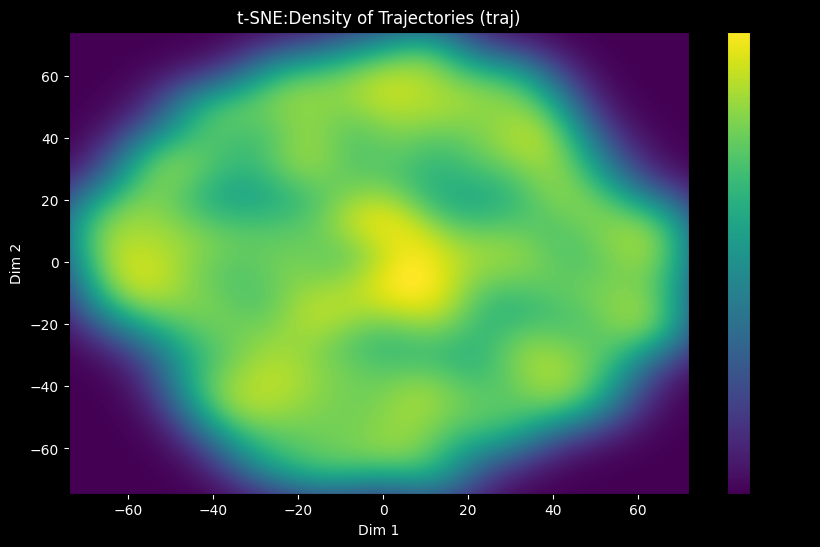
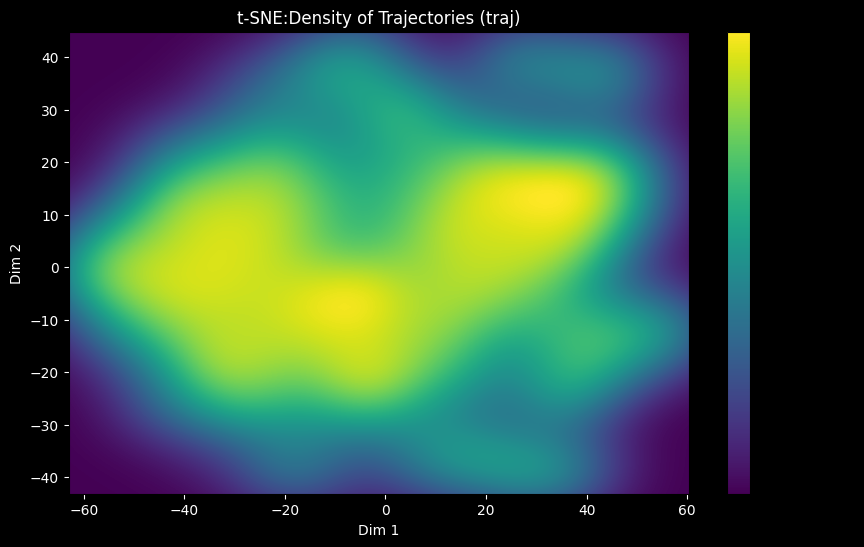
update curioisty data generation

diff --git a/Pretrain/generate_dataset.py b/Pretrain/generate_dataset.py
@@ -12,61 +12,81 @@ import torch.nn as nn
 import torch.nn.functional as F
 from rsl_rl.runners import OnPolicyRunner
 from .go2_env import Go2Env
+from sklearn.metrics.pairwise import cosine_similarity
+from collections import deque
 
-class BatchedRandomPolicyNN(nn.Module):
-    def __init__(self, num_envs, input_dim, hidden_dim, output_dim):
-        super(BatchedRandomPolicyNN, self).__init__()
-        self.num_envs = num_envs
 
-        # Create batched weights and biases
-        self.fc1_w = nn.Parameter(torch.empty(num_envs, hidden_dim, input_dim))
-        self.fc1_b = nn.Parameter(torch.empty(num_envs, 1, hidden_dim))
-        self.fc2_w = nn.Parameter(torch.empty(num_envs, hidden_dim, hidden_dim))
-        self.fc2_b = nn.Parameter(torch.empty(num_envs, 1, hidden_dim))
-        self.fc3_w = nn.Parameter(torch.empty(num_envs, output_dim, hidden_dim))
-        self.fc3_b = nn.Parameter(torch.empty(num_envs, 1, output_dim))
+class ICMModule(nn.Module):
+    def __init__(self, state_dim, action_dim, hidden_dim=256):
+        super(ICMModule, self).__init__()
+        # Encoder: Maps state-action to feature space
+        self.encoder = nn.Sequential(
+            nn.Linear(state_dim + action_dim, hidden_dim),
+            nn.ReLU(),
+            nn.Linear(hidden_dim, hidden_dim // 2)
+        )
+        # Forward model: Predicts next state features
+        self.forward_model = nn.Sequential(
+            nn.Linear(hidden_dim // 2 + action_dim, hidden_dim),
+            nn.ReLU(),
+            nn.Linear(hidden_dim, hidden_dim // 2)
+        )
+        # Inverse model: Predicts action from state transitions
+        self.inverse_model = nn.Sequential(
+            nn.Linear(hidden_dim // 2 * 2, hidden_dim),
+            nn.ReLU(),
+            nn.Linear(hidden_dim, action_dim)
+        )
 
-        self.reset_parameters()
+    def forward(self, state, action, next_state):
+        # Encode state and next_state
+        state_action = torch.cat([state, action], dim=-1)
+        phi = self.encoder(state_action)
+        phi_next = self.encoder(torch.cat([next_state, action], dim=-1))
 
-    def reset_parameters(self):
-        # Vectorized initialization for all policies at once
-        for param in self.parameters():
-            if param.dim() > 2: # Weights
-                nn.init.kaiming_normal_(param, mode="fan_in", nonlinearity="relu")
-            else: # Biases
-                nn.init.zeros_(param)
+        # Forward prediction
+        pred_phi_next = self.forward_model(torch.cat([phi, action], dim=-1))
+        forward_loss = F.mse_loss(pred_phi_next, phi_next, reduction='none').mean(dim=-1)
 
-    def forward(self, x):
-        # x shape: (num_envs, 1, input_dim)
-        # Use batched matrix multiply (bmm)
-        x = F.relu(torch.bmm(x, self.fc1_w.transpose(1, 2)) + self.fc1_b)
-        x = F.relu(torch.bmm(x, self.fc2_w.transpose(1, 2)) + self.fc2_b)
-        x = torch.bmm(x, self.fc3_w.transpose(1, 2)) + self.fc3_b
-        return x.squeeze(1) # Output shape: (num_envs, output_dim)
+        # Inverse prediction
+        pred_action = self.inverse_model(torch.cat([phi, phi_next], dim=-1))
+        inverse_loss = F.mse_loss(pred_action, action, reduction='none').mean(dim=-1)
+
+        return forward_loss, inverse_loss
+
+
+def compute_trajectory_embedding(traj, downsample_factor=5):
+    """Compute a compact embedding for deduplication."""
+    # Downsample and flatten trajectory (e.g., joint positions)
+    traj_downsampled = traj[::downsample_factor].reshape(-1)
+    return traj_downsampled
 
 
 def generate(cfg: DictConfig):
     # Data Gen Configs
     NUM_ENVS = cfg.dataset.num_envs
-    EPISODES_TO_COLLECT = cfg.dataset.episodes
-    MAX_EPISODE_SECONDS = cfg.dataset.max_episode_seconds
-    FRAME_RATE = cfg.dataset.frame_rate
+    EPISODES_TO_COLLECT = cfg.dataset.episodes  # Target: 500,000
+    MAX_EPISODE_SECONDS = cfg.dataset.max_episode_seconds  # 5s
+    FRAME_RATE = cfg.dataset.frame_rate  # 30 FPS
     AGENT = cfg.agent.name
     path = f"./Pretrain/data/{AGENT}/{NUM_ENVS} {EPISODES_TO_COLLECT} {MAX_EPISODE_SECONDS} {FRAME_RATE}"
     os.makedirs(path, exist_ok=True)
     SAVE_FILENAME = f"{path}/{NUM_ENVS} {EPISODES_TO_COLLECT} {MAX_EPISODE_SECONDS} {FRAME_RATE}.h5"
 
-    STRUCTURED_FRACTION = cfg.dataset.structured_fraction
-    NUM_STRUCTURED = int(EPISODES_TO_COLLECT * STRUCTURED_FRACTION)
-    NUM_RANDOM = EPISODES_TO_COLLECT - NUM_STRUCTURED
-    NOISE_STD_MAX = cfg.dataset.noise_std_max
+    CURIOSITY_BETA = cfg.dataset.curiosity_beta  # Weight for intrinsic reward
     POLICY_HIDDEN_DIM = cfg.dataset.policy_hidden_dim
+    SIMILARITY_THRESHOLD = cfg.dataset.similarity_threshold  # For deduplication
 
     log_dir = cfg.dataset.log_dir
     env_cfg, obs_cfg, reward_cfg, command_cfg, train_cfg = pickle.load(open(f"{log_dir}/cfgs.pkl", "rb"))
 
     gs.init()
-    reward_cfg["reward_scales"] = {}
+    reward_cfg["reward_scales"] = {
+        "tracking_lin_vel": 1.0,  # Encourage velocity tracking
+        "tracking_ang_vel": 1.0,  # Encourage yaw tracking
+        "similar_to_default": -0.5,  # Penalize deviation from default pose
+        "base_height": -0.5  # Penalize height deviation
+    }
 
     env = Go2Env(
         num_envs=NUM_ENVS,
@@ -77,24 +97,31 @@ def generate(cfg: DictConfig):
         show_viewer=NUM_ENVS < 128,
     )
 
-    # Load RL policy once
+    # Initialize PPO policy and ICM
     runner = OnPolicyRunner(env, train_cfg, log_dir, device=gs.device)
-    resume_path = os.path.join(log_dir, f"model.pt")
-    runner.load(resume_path)
-    rl_policy = runner.get_inference_policy(device=gs.device)
+    policy = runner.get_inference_policy(device=gs.device)  # Base PPO policy
+    icm = ICMModule(state_dim=env.num_obs, action_dim=env.num_actions, hidden_dim=POLICY_HIDDEN_DIM).to(gs.device)
+    icm_optimizer = torch.optim.Adam(icm.parameters(), lr=1e-3)
 
     # Joint/DoF from env
     n_dofs = len(env.motors_dof_idx)
     input_dim = env.num_obs
     output_dim = env.num_actions
-
     max_episode_len = int(MAX_EPISODE_SECONDS * FRAME_RATE)
-    total_episodes_saved = 0
 
+    # Buffers
     agent_traj_buffer = torch.zeros((max_episode_len, NUM_ENVS, n_dofs), device=gs.device)
     obj_traj_buffer = torch.zeros((max_episode_len, NUM_ENVS, 3), device=gs.device)
+    state_buffer = torch.zeros((max_episode_len, NUM_ENVS, input_dim), device=gs.device)
+    action_buffer = torch.zeros((max_episode_len, NUM_ENVS, output_dim), device=gs.device)
+    next_state_buffer = torch.zeros((max_episode_len, NUM_ENVS, input_dim), device=gs.device)
 
-    print(f"Starting data generation. Target: {EPISODES_TO_COLLECT} episodes (Structured: {NUM_STRUCTURED}, Random: {NUM_RANDOM}).")
+    # Deduplication buffer
+    traj_embeddings = deque(maxlen=250000)  # Increased for 500k episodes
+
+    total_episodes_saved = 0
+    print(f"Starting curiosity-driven data generation on flat terrain. Target: {EPISODES_TO_COLLECT} episodes.")
+
     if os.path.exists(SAVE_FILENAME):
         os.remove(SAVE_FILENAME)
         print(f"Removed existing file: '{SAVE_FILENAME}'")
@@ -105,69 +132,99 @@ def generate(cfg: DictConfig):
         agent_ds = f.create_dataset('agent_trajectories', shape=(EPISODES_TO_COLLECT, max_episode_len, n_dofs), dtype='float32', compression="gzip")
         obj_ds = f.create_dataset('obj_trajectories', shape=(EPISODES_TO_COLLECT, max_episode_len, 3), dtype='float32', compression="gzip")
 
-        # --- Structured episodes (RL policy + gradual noise) ---
-        structured_saved = 0
-        while structured_saved < NUM_STRUCTURED:
+        # Pre-train ICM briefly to bootstrap curiosity
+        print("Pre-training ICM...")
+        for pretrain_iter in range(1000):  # Short pre-training
             obs, _ = env.reset()
-            with torch.no_grad():
+
+            # --- NO LOSS CALCULATION IN THIS LOOP ---
+            # This loop is now only for collecting a full episode of transitions.
+            with torch.no_grad():  # Actions are treated as data for ICM, no need for policy grads here
                 for t in range(max_episode_len):
-                    agent_traj_buffer[t] = env.robot.get_dofs_position(env.motors_dof_idx)
-                    obj_traj_buffer[t] = torch.zeros((NUM_ENVS, 3), device=gs.device)
-
-                    actions = rl_policy(obs)
-                    noise_std = NOISE_STD_MAX * (t / max_episode_len)
-                    noise = torch.normal(0, noise_std, size=actions.shape, device=gs.device)
-                    actions_noisy = actions + noise
-                    obs, rews, dones, infos = env.step(actions_noisy)
-
-            start_idx = total_episodes_saved
-            num_this_batch = min(NUM_ENVS, NUM_STRUCTURED - structured_saved)
-            end_idx = start_idx + num_this_batch
-
-            # ✅ Slice on GPU first, then copy only the necessary data
-            agent_data_to_save = agent_traj_buffer[:, :num_this_batch, :].cpu().numpy()
-            obj_data_to_save = obj_traj_buffer[:, :num_this_batch, :].cpu().numpy()
-
-            agent_ds[start_idx:end_idx] = np.transpose(agent_data_to_save, (1, 0, 2))
-            obj_ds[start_idx:end_idx] = np.transpose(obj_data_to_save, (1, 0, 2))
-
-            structured_saved += num_this_batch
-            total_episodes_saved += num_this_batch
-            print(f"  ...Collected structured episodes: {structured_saved}/{NUM_STRUCTURED}")
-
-        # --- Random episodes (random NN policies) ---
-        random_saved = 0
-        # ✅ Create a single batched policy for all environments
-        batched_policy = BatchedRandomPolicyNN(NUM_ENVS, input_dim, POLICY_HIDDEN_DIM, output_dim).to(gs.device)
-
-        while random_saved < NUM_RANDOM:
-            obs, _ = env.reset()
-            # ✅ Re-initialize all policies at once efficiently
-            batched_policy.reset_parameters()
-
-            with torch.no_grad():
-                for t in range(max_episode_len):
-                    agent_traj_buffer[t] = env.robot.get_dofs_position(env.motors_dof_idx)
-                    obj_traj_buffer[t] = torch.zeros((NUM_ENVS, 3), device=gs.device)
-
-                    # ✅ Use a single, fast, batched forward pass
-                    actions = batched_policy(obs.unsqueeze(1))
+                    state_buffer[t] = obs
+                    actions = policy(obs)
+                    action_buffer[t] = actions
                     obs, rews, dones, infos = env.step(actions)
+                    next_state_buffer[t] = obs
 
+            # --- BATCH LOSS CALCULATION AFTER THE EPISODE ---
+
+            # Reshape the buffers into a single large batch of transitions
+            # Shape goes from (time, envs, dim) to (time * envs, dim)
+            s = state_buffer.reshape(-1, input_dim)
+            a = action_buffer.reshape(-1, output_dim)
+            s_next = next_state_buffer.reshape(-1, input_dim)
+
+            # Now, compute the loss on the entire batch of transitions at once
+            forward_loss, inverse_loss = icm(s, a, s_next)
+
+            # The final loss is a simple mean over the batch dimension
+            total_loss = forward_loss.mean() + inverse_loss.mean()
+
+            # Single backward pass on the cleanly computed total loss
+            icm_optimizer.zero_grad()
+            total_loss.backward()
+            icm_optimizer.step()
+            print(f"  ...Pre-training iteration {pretrain_iter + 1}/1000, Loss: {total_loss.item():.4f}")
+
+        print("Pre-training complete. Starting episode collection...")
+
+        # Curiosity-driven collection on flat terrain
+        while total_episodes_saved < EPISODES_TO_COLLECT:
+            obs, _ = env.reset()
+            valid_episodes = torch.ones(NUM_ENVS, dtype=torch.bool, device=gs.device)
+
+            with torch.no_grad():
+                for t in range(max_episode_len):
+                    state_buffer[t] = obs
+                    actions = policy(obs)
+                    action_buffer[t] = actions
+                    obs, rews, dones, infos = env.step(actions)
+                    next_state_buffer[t] = obs
+
+                    # Compute intrinsic reward (curiosity)
+                    forward_loss, _ = icm(state_buffer[t], actions, next_state_buffer[t])
+                    intrinsic_rewards = forward_loss * CURIOSITY_BETA
+
+                    # Joint limit check
+                    joint_positions = env.robot.get_dofs_position(env.motors_dof_idx)  # Shape: (NUM_ENVS, n_dofs)
+
+                    agent_traj_buffer[t] = joint_positions
+                    obj_traj_buffer[t] = torch.zeros((NUM_ENVS, 3), device=gs.device)
+
+            # Deduplicate and save valid trajectories
             start_idx = total_episodes_saved
-            num_this_batch = min(NUM_ENVS, NUM_RANDOM - random_saved)
-            end_idx = start_idx + num_this_batch
+            num_this_batch = min(NUM_ENVS, EPISODES_TO_COLLECT - total_episodes_saved)
+            valid_indices = torch.where(valid_episodes)[0][:num_this_batch]
 
-            # ✅ Slice on GPU first, then copy only the necessary data
-            agent_data_to_save = agent_traj_buffer[:, :num_this_batch, :].cpu().numpy()
-            obj_data_to_save = obj_traj_buffer[:, :num_this_batch, :].cpu().numpy()
+            if valid_indices.size(0) > 0:
+                agent_data = agent_traj_buffer[:, valid_indices, :].cpu().numpy()
+                obj_data = obj_traj_buffer[:, valid_indices, :].cpu().numpy()
 
-            agent_ds[start_idx:end_idx] = np.transpose(agent_data_to_save, (1, 0, 2))
-            obj_ds[start_idx:end_idx] = np.transpose(obj_data_to_save, (1, 0, 2))
+                # Deduplication
+                valid_batch = []
+                for i in range(agent_data.shape[1]):
+                    traj_embedding = compute_trajectory_embedding(agent_data[:, i, :])
+                    is_unique = True
+                    for existing_emb in traj_embeddings:
+                        if cosine_similarity([traj_embedding], [existing_emb])[0, 0] > SIMILARITY_THRESHOLD:
+                            is_unique = False
+                            break
+                    if is_unique:
+                        valid_batch.append(i)
+                        traj_embeddings.append(traj_embedding)
 
-            random_saved += num_this_batch
-            total_episodes_saved += num_this_batch
-            print(f"  ...Collected random episodes: {random_saved}/{NUM_RANDOM}")
+                if valid_batch:
+                    valid_batch = valid_batch[:num_this_batch]  # Ensure we don't overshoot
+                    agent_data_to_save = agent_data[:, valid_batch, :]
+                    obj_data_to_save = obj_data[:, valid_batch, :]
+
+                    end_idx = start_idx + len(valid_batch)
+                    if end_idx > start_idx:
+                        agent_ds[start_idx:end_idx] = np.transpose(agent_data_to_save, (1, 0, 2))
+                        obj_ds[start_idx:end_idx] = np.transpose(obj_data_to_save, (1, 0, 2))
+                        total_episodes_saved += len(valid_batch)
+                        print(f"  ...Collected curiosity-driven episodes: {total_episodes_saved}/{EPISODES_TO_COLLECT}")
 
     end_time = time.time()
     duration = end_time - start_time
